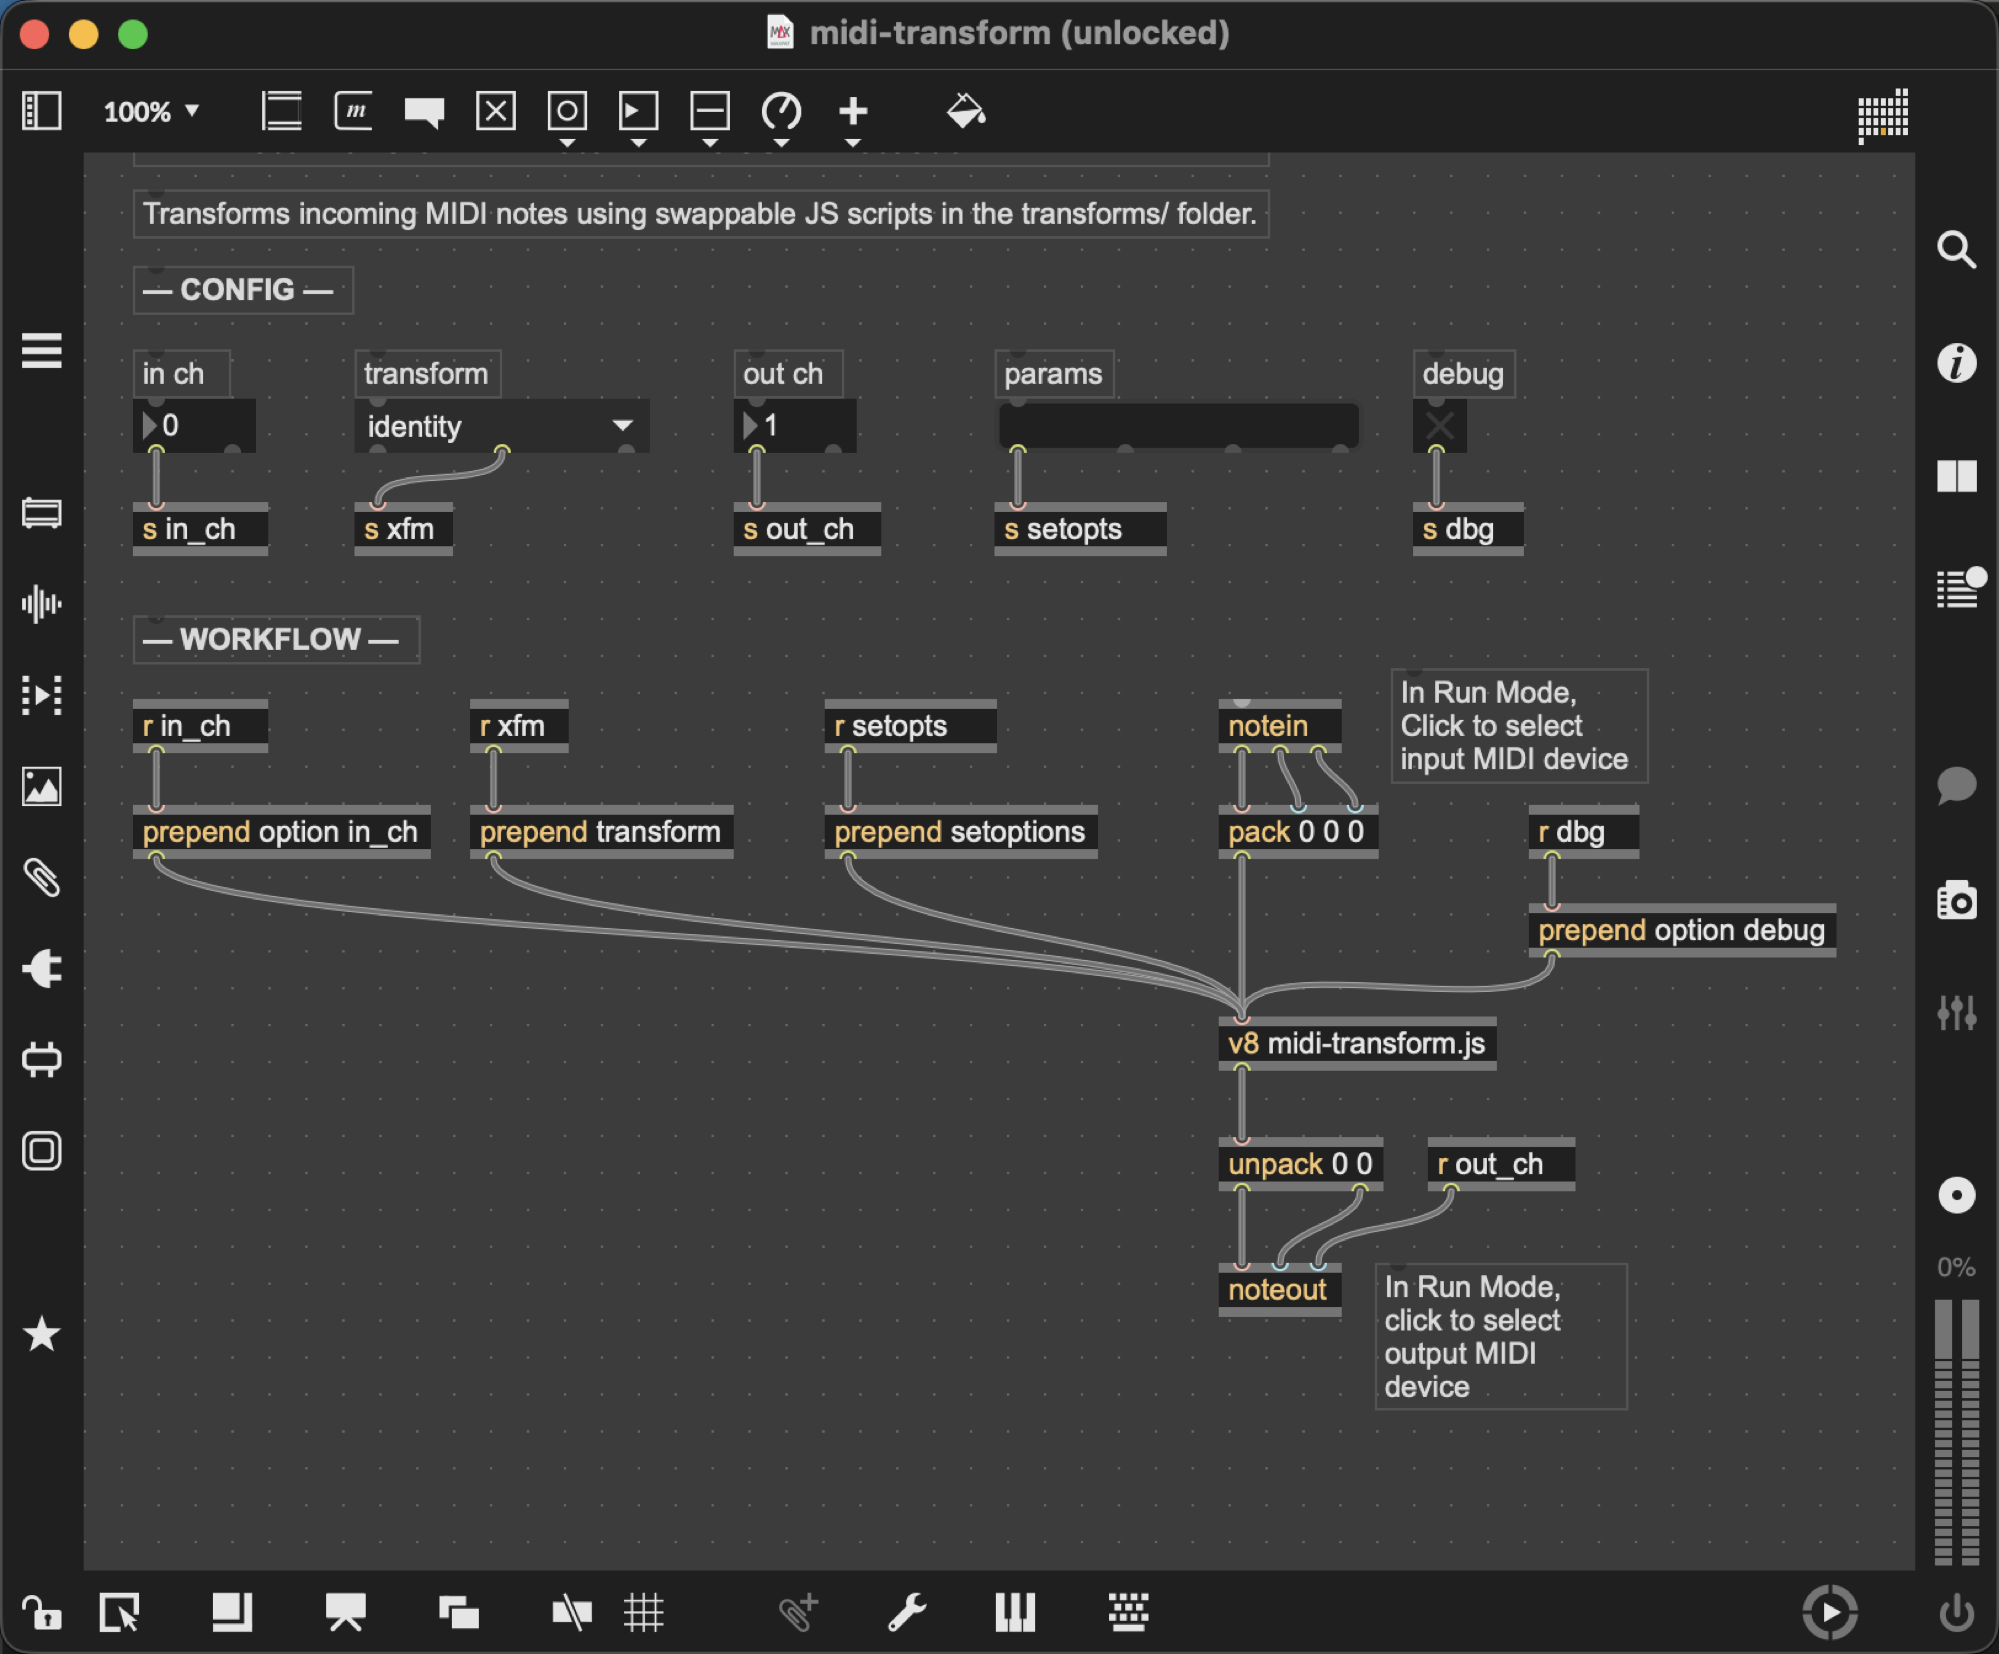
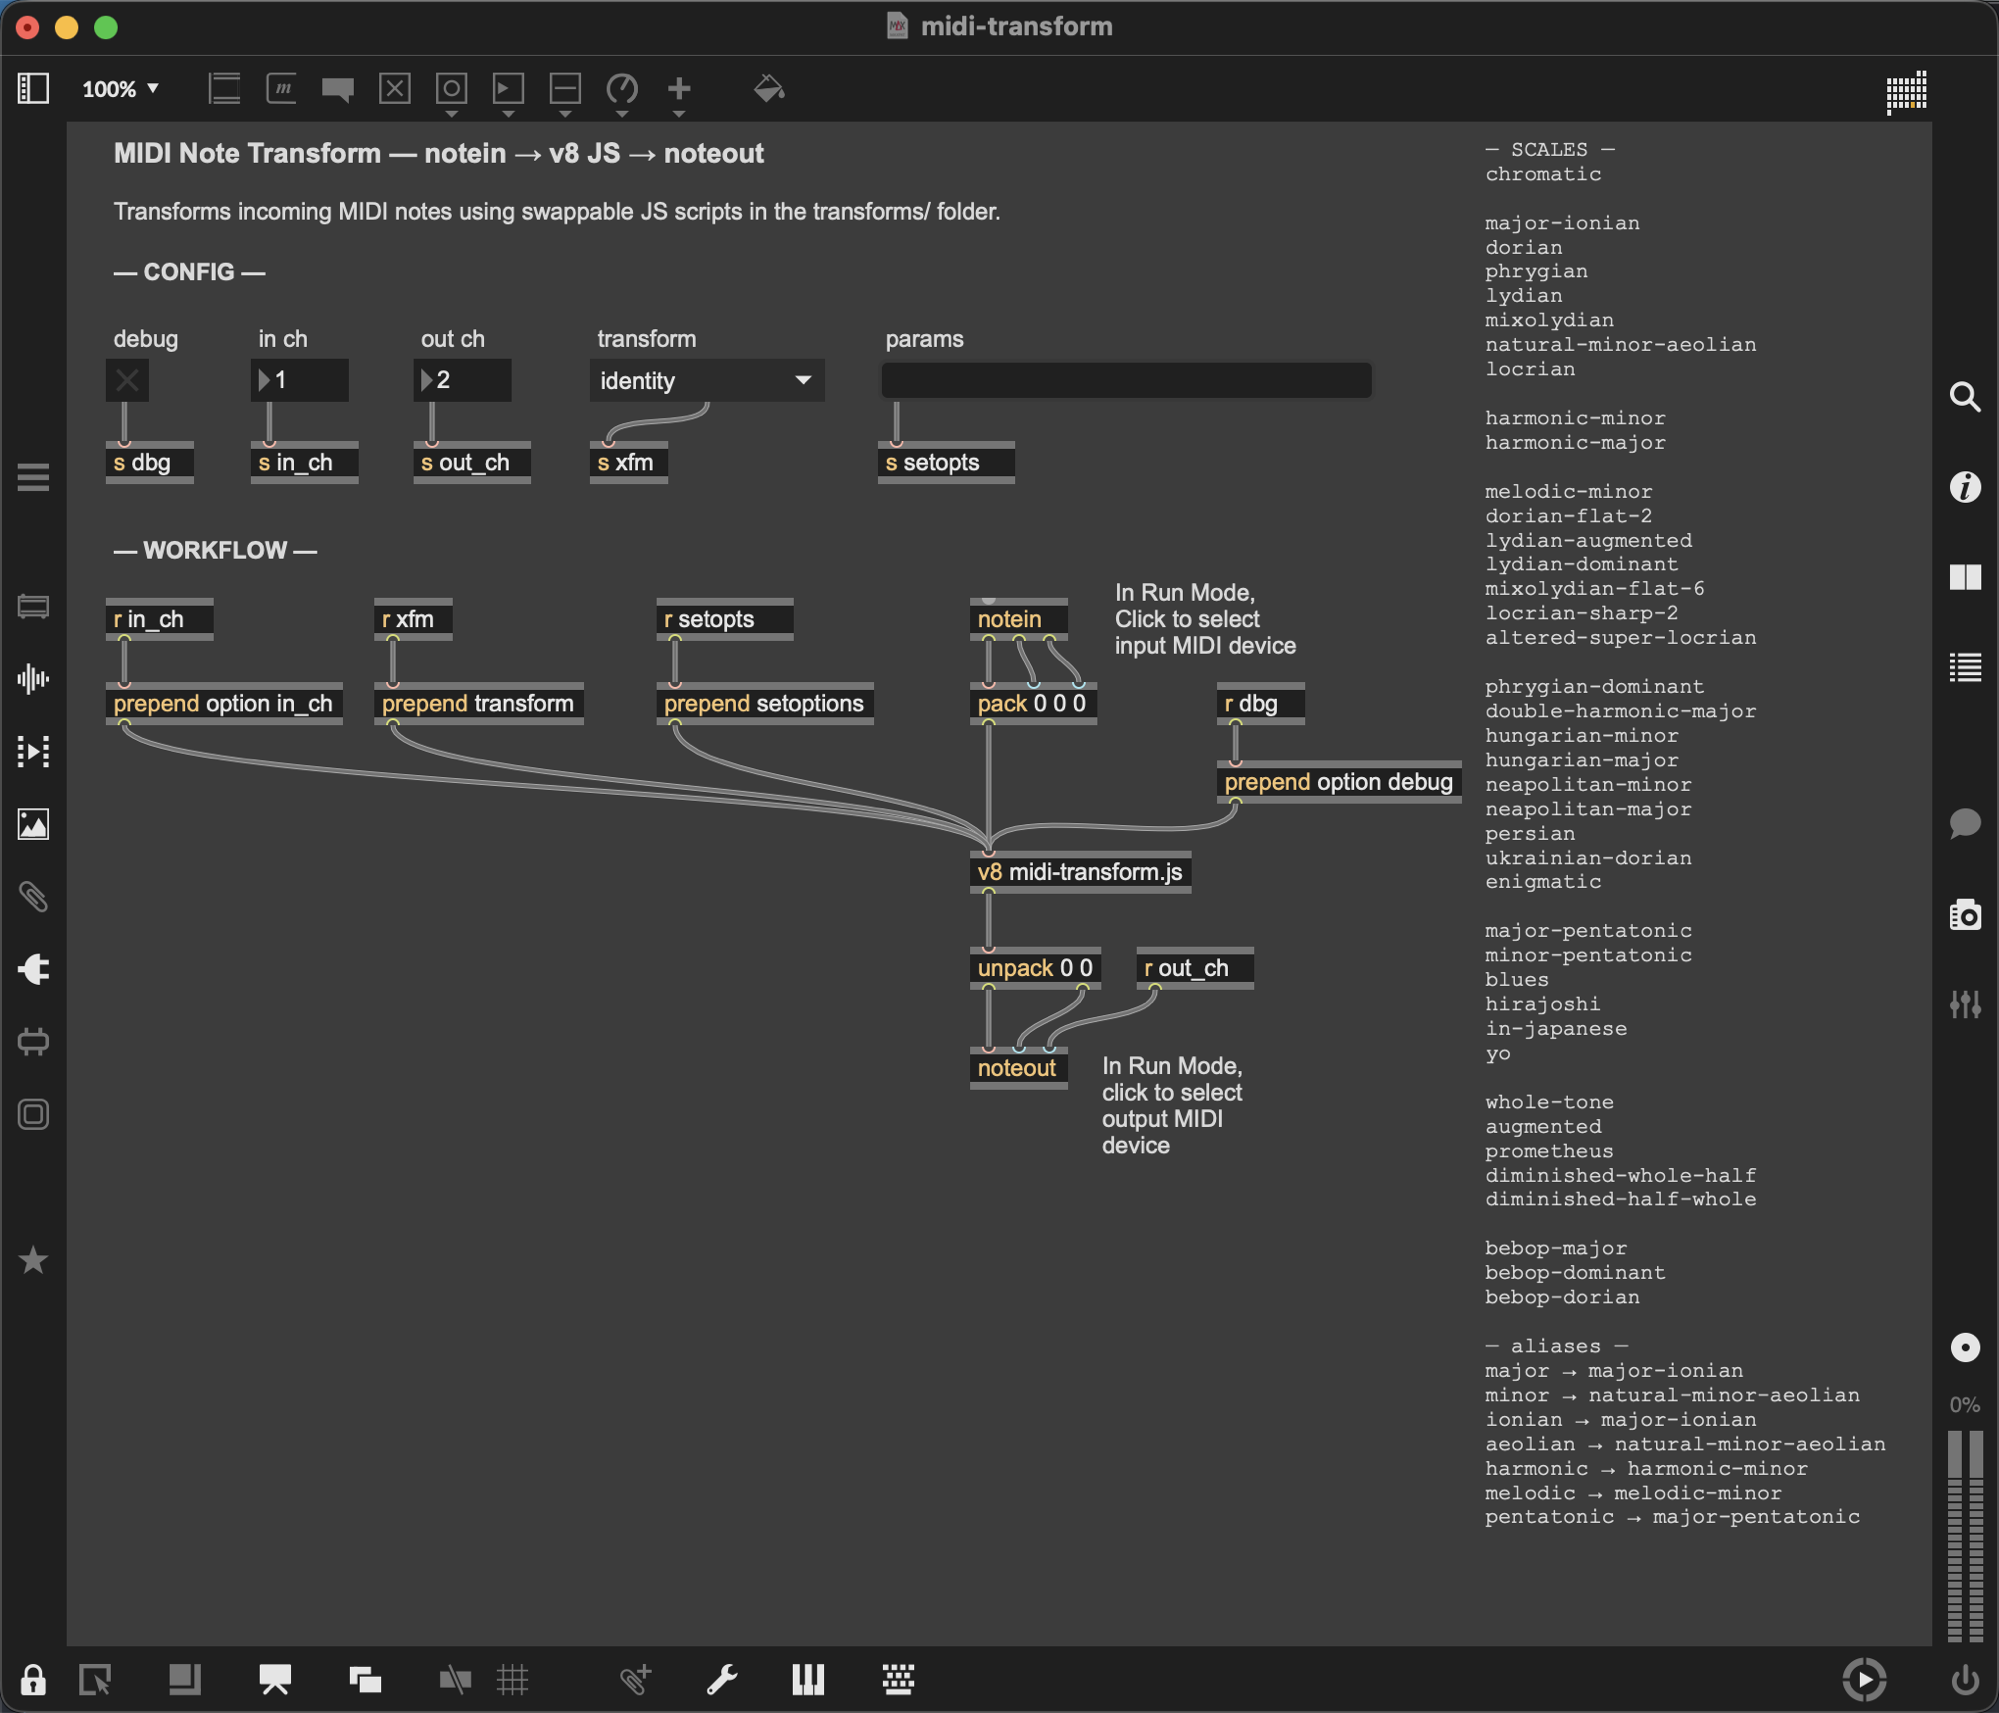
Add a transform that randomly replaces a note from a specified scale

diff --git a/transforms/scale-rand.js b/transforms/scale-rand.js
@@ -1,0 +1,81 @@
+// scale-rand.js — replace each note with a random pitch from a named scale
+//
+// Builds all MIDI pitches (0–127) whose pitch class belongs to the specified
+// scale, then picks one at random from the exclusive range
+// (n-(r+1)*12, n+(r+1)*12) where n is the input pitch and r is `range`.
+//
+// Options:
+//   scale        string  scale name from the SCALES dict below  (default: "major")
+//   root         string  root note, case-insensitive, e.g. C  Bb  F#  Ab  (default: "C")
+//   range        int>=0  notes drawn from (n-(r+1)*12, n+(r+1)*12) exclusive (default: 1)
+//   p            0–1     probability that the note is replaced at all  (default: 0)
+//
+// pitch    0–127  MIDI note number
+// velocity 0–127  note velocity, passed through unchanged
+
+var scalesModule = require("./transforms/scales.js");
+var SCALES = scalesModule.SCALES;
+var ALIASES = scalesModule.ALIASES;
+
+var _cache = {};
+
+var NOTE_PCS = { C: 0, D: 2, E: 4, F: 5, G: 7, A: 9, B: 11 };
+
+function parseRoot(str) {
+    var s = (str || "C").toUpperCase();
+    var pc = NOTE_PCS[s[0]];
+    if (pc === undefined) {
+        post("scale-rand: unknown root '" + s[0] + "', defaulting to C\n");
+        pc = 0;
+    }
+    var acc = s[1];
+    if (acc === "B") pc = (pc - 1 + 12) % 12;
+    else if (acc === "S" || acc === "#") pc = (pc + 1) % 12;
+    return pc;
+}
+
+function buildScalePitches(intervals, root) {
+    var pitchClasses = {};
+    var pc = root % 12;
+    pitchClasses[pc] = true;
+    for (var i = 0; i < intervals.length; i++) {
+        pc = (pc + intervals[i]) % 12;
+        pitchClasses[pc] = true;
+    }
+    var pitches = [];
+    for (var p = 0; p <= 127; p++) {
+        if (pitchClasses[p % 12]) pitches.push(p);
+    }
+    return pitches;
+}
+
+module.exports = function run(pitch, velocity, options) {
+    var scaleName = (options && options.scale) ? options.scale : "major";
+    var rootStr = (options && options.root) ? options.root : "C";
+    var range = (options && options.range !== undefined) ? options.range : 1;
+    var p = (options && options.p !== undefined) ? options.p : 0.5;
+    if (Math.random() >= p) return [pitch, velocity];
+    var cacheKey = rootStr + ":" + scaleName;
+    if (!_cache[cacheKey]) {
+        var resolved = ALIASES[scaleName] || scaleName;
+        var intervals = SCALES[resolved];
+        if (!intervals) {
+            post("scale-rand: unknown scale '" + resolved + "', passing through\n");
+            return [pitch, velocity];
+        }
+        _cache[cacheKey] = buildScalePitches(intervals, parseRoot(rootStr));
+    }
+    var allPitches = _cache[cacheKey];
+    var lo = pitch - (range + 1) * 12;
+    var hi = pitch + (range + 1) * 12;
+    var pitches = [];
+    for (var i = 0; i < allPitches.length; i++) {
+        var candidate = allPitches[i];
+        if (candidate > lo && candidate < hi && candidate !== pitch) pitches.push(candidate);
+    }
+    if (pitches.length === 0) return [pitch, velocity];
+    var newPitch = pitches[Math.floor(Math.random() * pitches.length)];
+    return [newPitch, velocity];
+};
+
+module.exports.defaults = { root: "C", scale: "major", range: 1, p: 0.5 };

diff --git a/transforms/scales.js b/transforms/scales.js
@@ -1,0 +1,60 @@
+module.exports.SCALES = {
+  "chromatic": [1, 1, 1, 1, 1, 1, 1, 1, 1, 1, 1, 1],
+
+  "major-ionian": [2, 2, 1, 2, 2, 2, 1],
+  "dorian": [2, 1, 2, 2, 2, 1, 2],
+  "phrygian": [1, 2, 2, 2, 1, 2, 2],
+  "lydian": [2, 2, 2, 1, 2, 2, 1],
+  "mixolydian": [2, 2, 1, 2, 2, 1, 2],
+  "natural-minor-aeolian": [2, 1, 2, 2, 1, 2, 2],
+  "locrian": [1, 2, 2, 1, 2, 2, 2],
+
+  "harmonic-minor": [2, 1, 2, 2, 1, 3, 1],
+  "harmonic-major": [2, 2, 1, 2, 1, 3, 1],
+
+  "melodic-minor": [2, 1, 2, 2, 2, 2, 1],
+  "dorian-flat-2": [1, 2, 2, 2, 2, 1, 2],
+  "lydian-augmented": [2, 2, 2, 2, 1, 2, 1],
+  "lydian-dominant": [2, 2, 2, 1, 2, 1, 2],
+  "mixolydian-flat-6": [2, 2, 1, 2, 1, 2, 2],
+  "locrian-sharp-2": [2, 1, 2, 1, 2, 2, 2],
+  "altered-super-locrian": [1, 2, 1, 2, 2, 2, 2],
+
+  "phrygian-dominant": [1, 3, 1, 2, 1, 2, 2],
+  "double-harmonic-major": [1, 3, 1, 2, 1, 3, 1],
+  "hungarian-minor": [2, 1, 3, 1, 1, 3, 1],
+  "hungarian-major": [3, 1, 2, 1, 2, 1, 2],
+  "neapolitan-minor": [1, 2, 2, 2, 1, 3, 1],
+  "neapolitan-major": [1, 2, 2, 2, 2, 2, 1],
+  "persian": [1, 3, 1, 1, 2, 3, 1],
+  "ukrainian-dorian": [2, 1, 3, 1, 2, 1, 2],
+  "enigmatic": [1, 3, 2, 2, 2, 1, 1],
+
+  "major-pentatonic": [2, 2, 3, 2, 3],
+  "minor-pentatonic": [3, 2, 2, 3, 2],
+  "blues": [3, 2, 1, 1, 3, 2],
+  "hirajoshi": [2, 1, 4, 1, 4],
+  "in-japanese": [1, 4, 2, 1, 4],
+  "yo": [2, 3, 2, 2, 3],
+
+  "whole-tone": [2, 2, 2, 2, 2, 2],
+  "augmented": [3, 1, 3, 1, 3, 1],
+  "prometheus": [2, 2, 2, 3, 1, 2],
+
+  "diminished-whole-half": [2, 1, 2, 1, 2, 1, 2, 1],
+  "diminished-half-whole": [1, 2, 1, 2, 1, 2, 1, 2],
+  "bebop-major": [2, 2, 1, 2, 1, 1, 2, 1],
+  "bebop-dominant": [2, 2, 1, 2, 2, 1, 1, 1],
+  "bebop-dorian": [2, 1, 1, 1, 2, 2, 1, 2],
+
+};
+
+module.exports.ALIASES = {
+  "major": "major-ionian",
+  "minor": "natural-minor-aeolian",
+  "ionian": "major-ionian",
+  "aeolian": "natural-minor-aeolian",
+  "harmonic": "harmonic-minor",
+  "melodic": "melodic-minor",
+  "pentatonic": "major-pentatonic"
+};

diff --git a/README.md b/README.md
@@ -18,9 +18,11 @@ MIDI input via `notein` → JavaScript transform → `noteout`. The active trans
 
 | Parameter | Description |
 |-----------|-------------|
+| **debug** | Log each note transform to the Max console |
 | **in ch** | MIDI input channel (0 = all) |
-| **transform** | Active transform (selected from `transforms/`) |
 | **out ch** | MIDI output channel |
+| **transform** | Active transform (selected from `transforms/`) |
+| **params** | Key-value pairs passed as options to the active transform (e.g. `root Bb scale minor p 0.5`) |
 
 ## Transforms
 
@@ -35,7 +37,12 @@ module.exports = function run(pitch, velocity, options) {
 | File | Description |
 |------|-------------|
 | `identity.js` | Pass MIDI through unchanged |
-| `octave-rand.js` | Randomly shift pitch by ±N octaves (`option neighborhood <n>`) |
+| `octave-rand.js` | Randomly shift pitch by ±N octaves. Option: `range <n>` |
+| `scale-rand.js` | Randomly replace notes with pitches from a named scale. Options: `root <note>`, `scale <name>`, `range <n>`, `p <0-1>` |
+
+Scale names and aliases are defined in `transforms/scales.js`.
+
+> **Note:** "scale" in this repo refers to a rootless interval pattern (e.g. `major` = `[2,2,1,2,2,2,1]`). The root is supplied separately via the `root` option and combined at runtime to produce actual pitches.
 
 To add a new transform, create `transforms/my-transform.js` and add it to the umenu in the patch.
 
